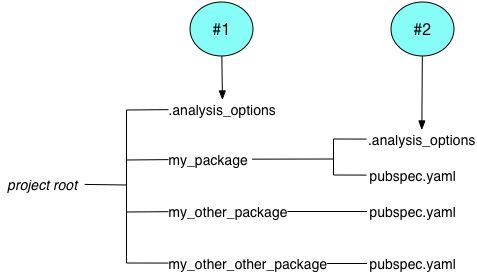
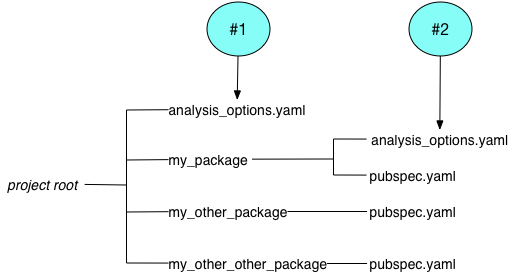
Renaming .analysis_options to analysis_options.yaml

diff --git a/src/_guides/language/analysis-options.md b/src/_guides/language/analysis-options.md
@@ -47,10 +47,8 @@ add static analysis to your tool, see the
 
 ## The analysis options file
 
-Place the analysis options file at the root of the package,
-in the same directory as the pubspec file.
-By convention, the file is called `.analysis_options`, but it
-can also be named `analysis_options.yaml` (without the leading dot).
+Place the analysis options file, `analysis_options.yaml`,
+at the root of the package, in the same directory as the pubspec file.
 
 Here's a sample analysis options file:
 
